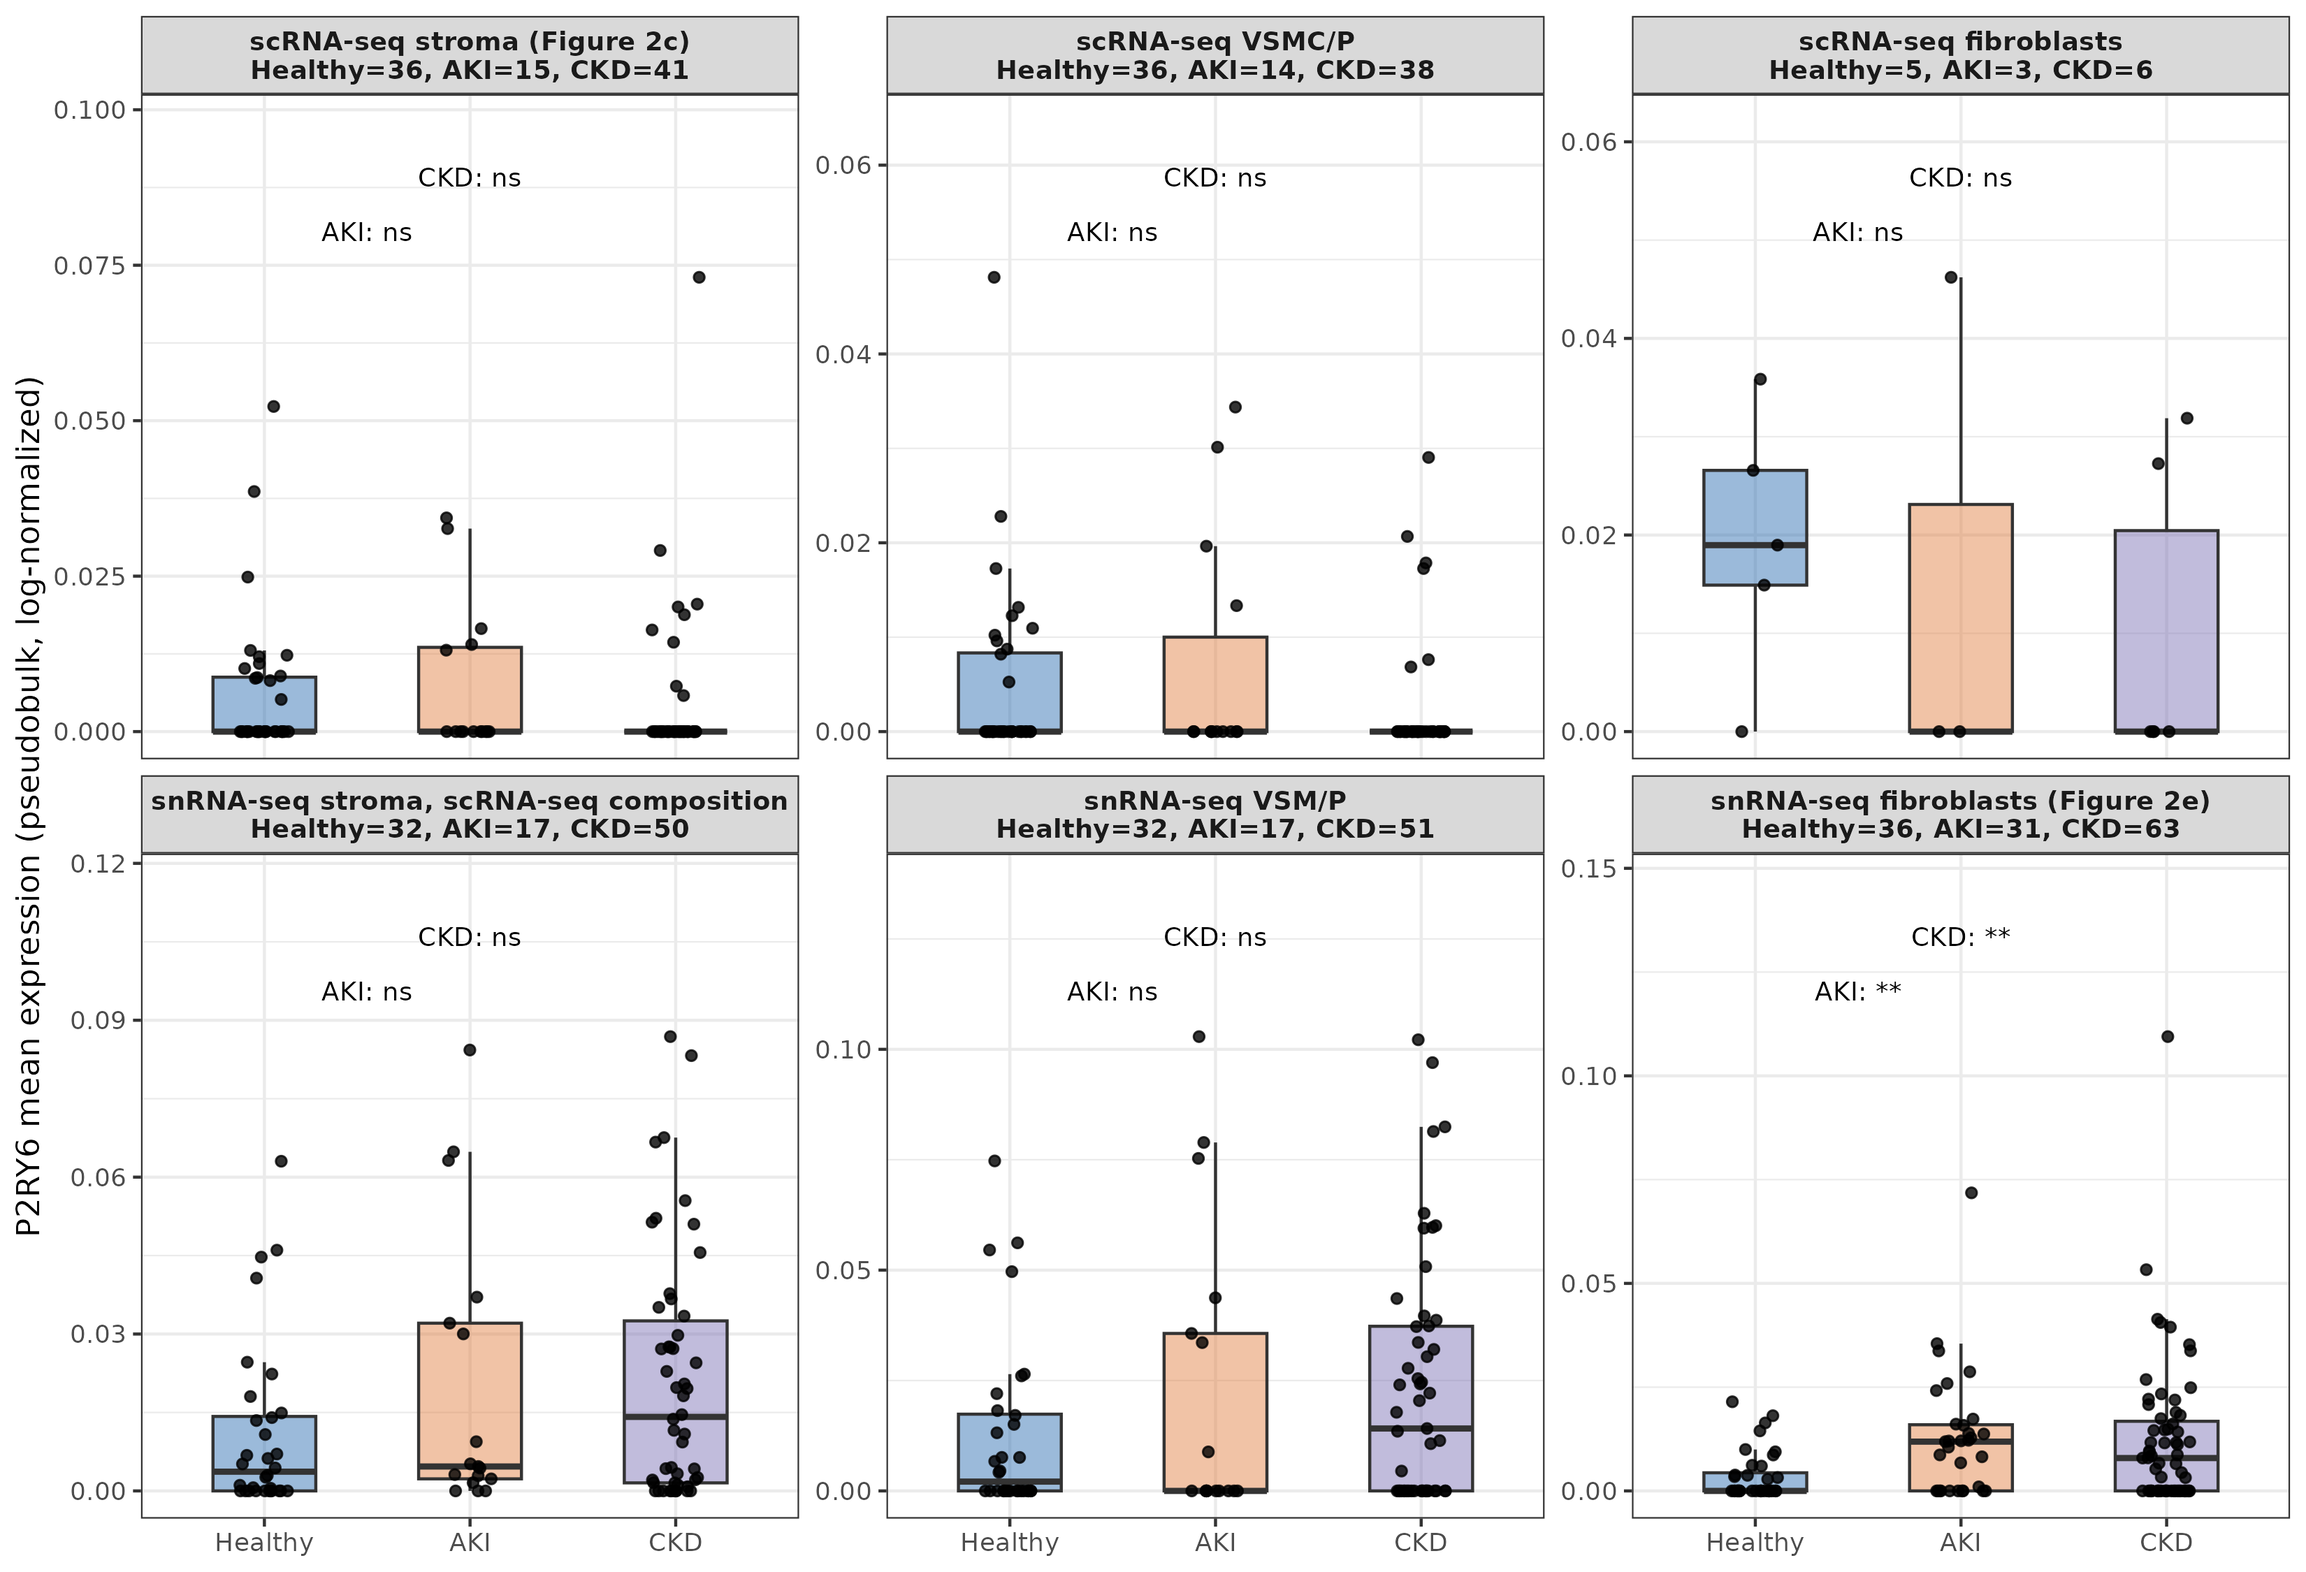
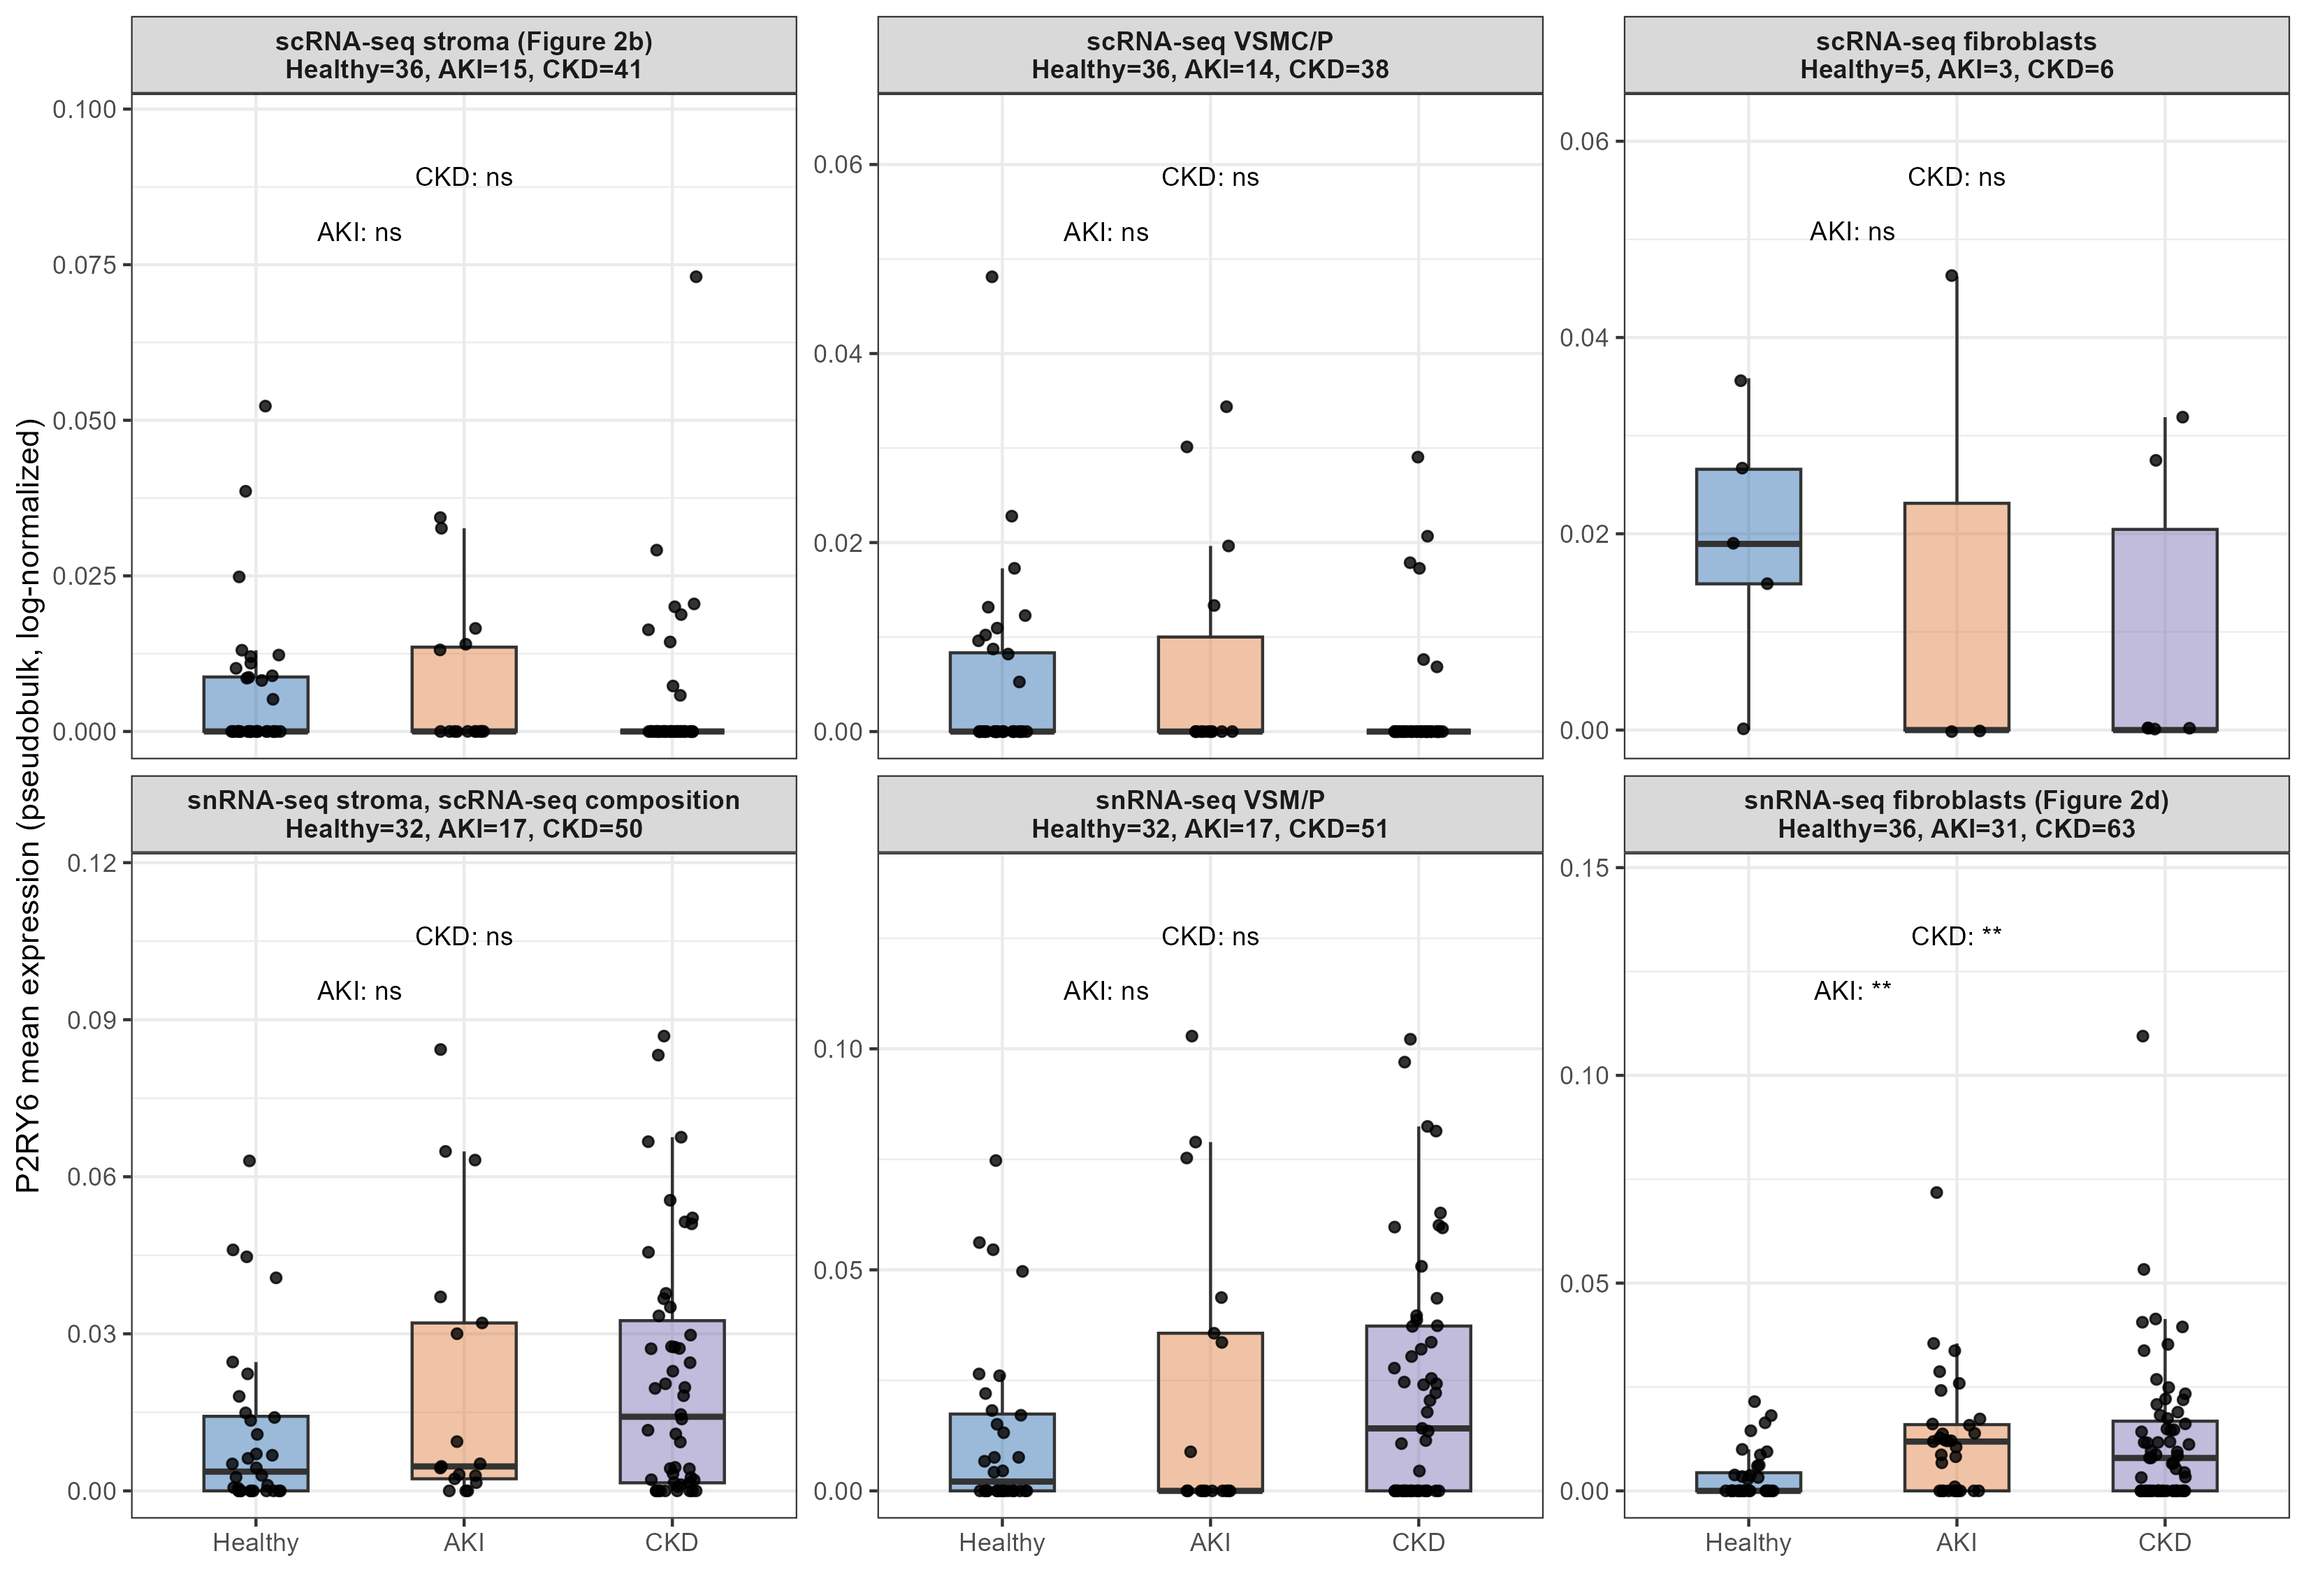
Correct Fan cohort tissue source in Table 1; re-run S83 (R2.03)
S75: the Fan DKD normal samples come from the unaffected portion of tumor
nephrectomies (GEO GSE142025 series design), not from biopsies; Table 1
now reads "One kidney sample per participant (DKD: biopsy; Normal: tumor
nephrectomy)".

S83 re-run on the Windows host after the panel relabeling: the diagnostic
figure now shows the Figure 2b/2d labels; the tables are unchanged.

diff --git a/04-Outputs/S75_Table1_Datasets/Table1_datasets.md b/04-Outputs/S75_Table1_Datasets/Table1_datasets.md
@@ -10,8 +10,8 @@ Table 1. Summary of transcriptomic datasets used in this study.
 |                   |              |                            |                                 | 21 (n=36)                                            | reads across all samples removed; deposited in   |
 |                   |              |                            |                                 |                                                      | GEO in this form (raw counts not available). In  |
 |                   |              |                            |                                 |                                                      | this study: values used without further          |
-|                   |              |                            |                                 |                                                      | normalization. One kidney biopsy per             |
-|                   |              |                            |                                 |                                                      | participant.                                     |
+|                   |              |                            |                                 |                                                      | normalization. One kidney sample per participant |
+|                   |              |                            |                                 |                                                      | (DKD: biopsy; Normal: tumor nephrectomy).        |
 +-------------------+--------------+----------------------------+---------------------------------+------------------------------------------------------+--------------------------------------------------+
 | KPMP scRNA-seq    | scRNA-seq    | 111 (Healthy 37, AKI 20,   | enrollment category not studied | **All conditions:**\                                 | By KPMP: integrated object including the Lake et |
 | (incl. Lake 2023) |              | CKD 51, DM-R 3)            | (n=3);\                         | - PT: Healthy 33, AKI 20, CKD 49 (n=102)\            | al. (2023) atlas, with raw UMI counts,           |
